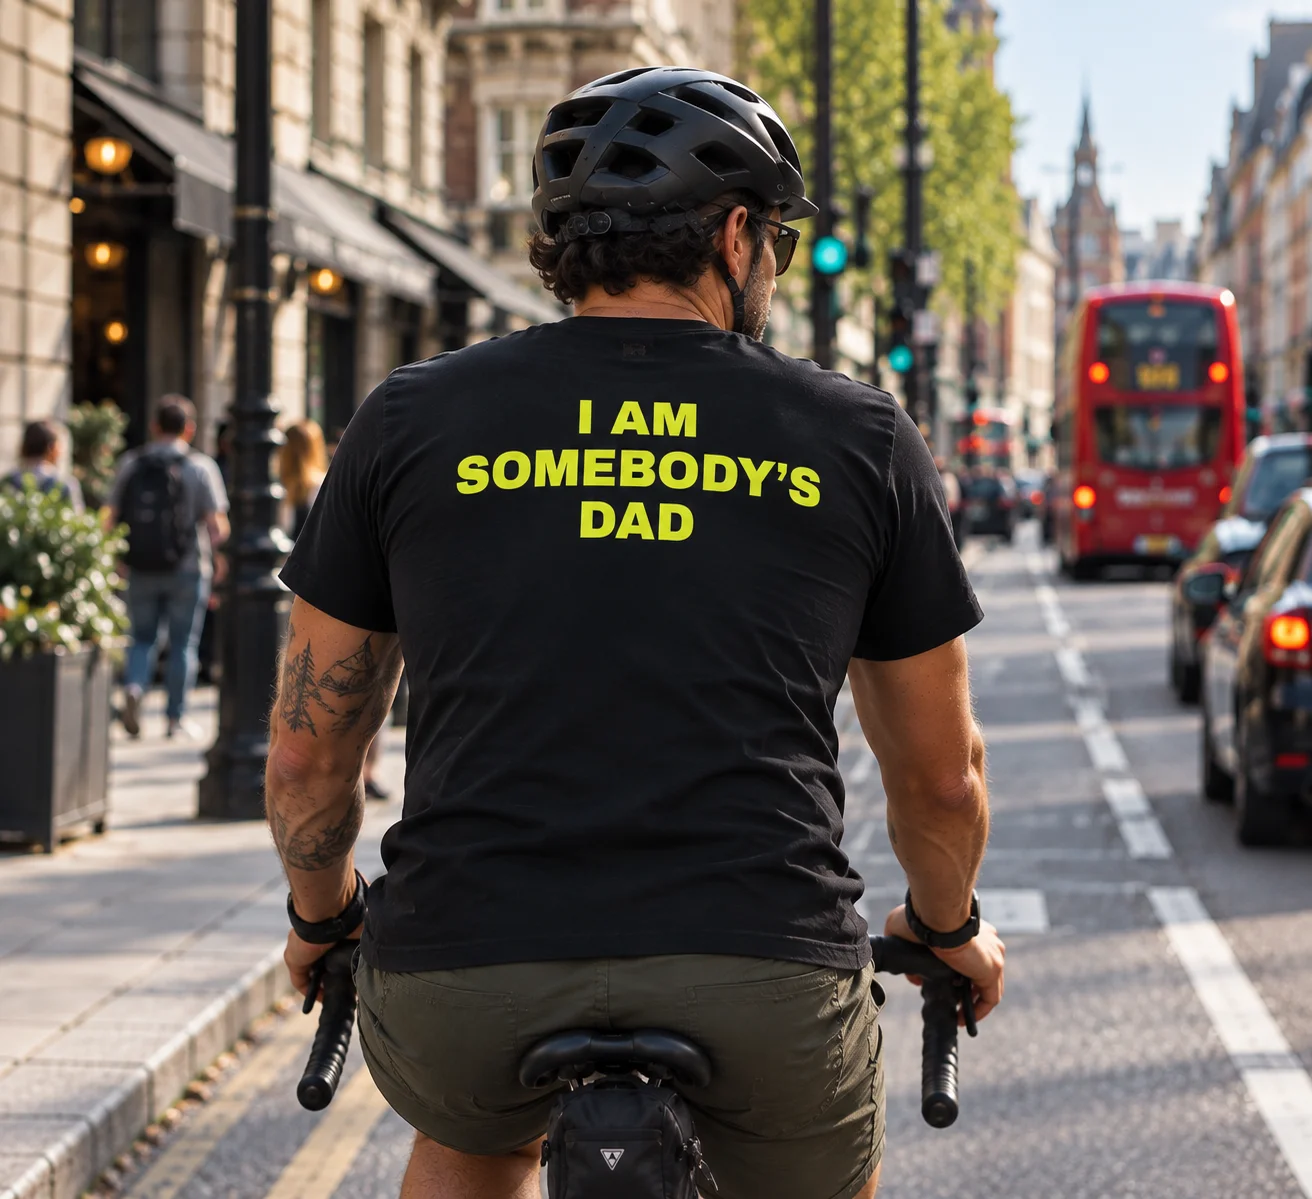
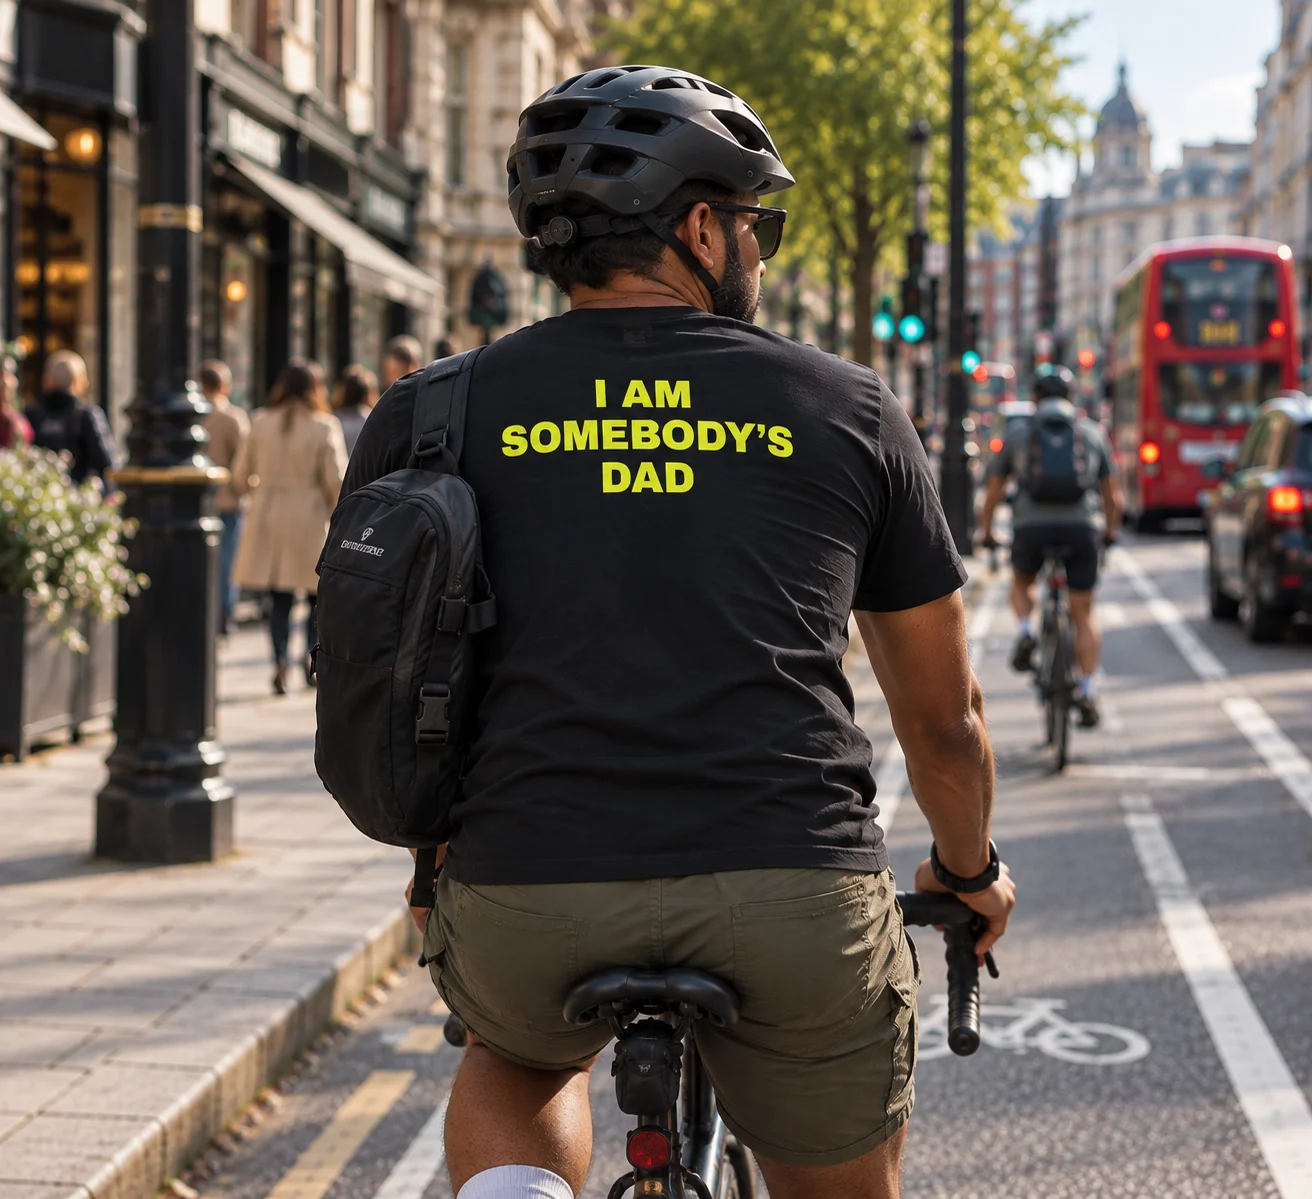
You page: new 'I am somebody's dad' street photo
Claude-Session: https://claude.ai/code/session_019xa6L3VDLUS6Spv4RoBBK9

diff --git a/lib/street.ts b/lib/street.ts
@@ -22,8 +22,8 @@ export const street: StreetPost[] = [
   },
   {
     type: 'photo',
-    src: '/street/somebodys-dad-black-tee.webp',
-    alt: 'A man cycling past a red London bus in a black t-shirt reading “I am somebody’s dad” in yellow',
+    src: '/street/somebodys-dad-black-tee.webp?v=2',
+    alt: 'A man with a backpack cycling in a London bike lane, black t-shirt reading “I am somebody’s dad” in yellow',
     credit: 'Saturday ride, London',
     example: true,
   },
